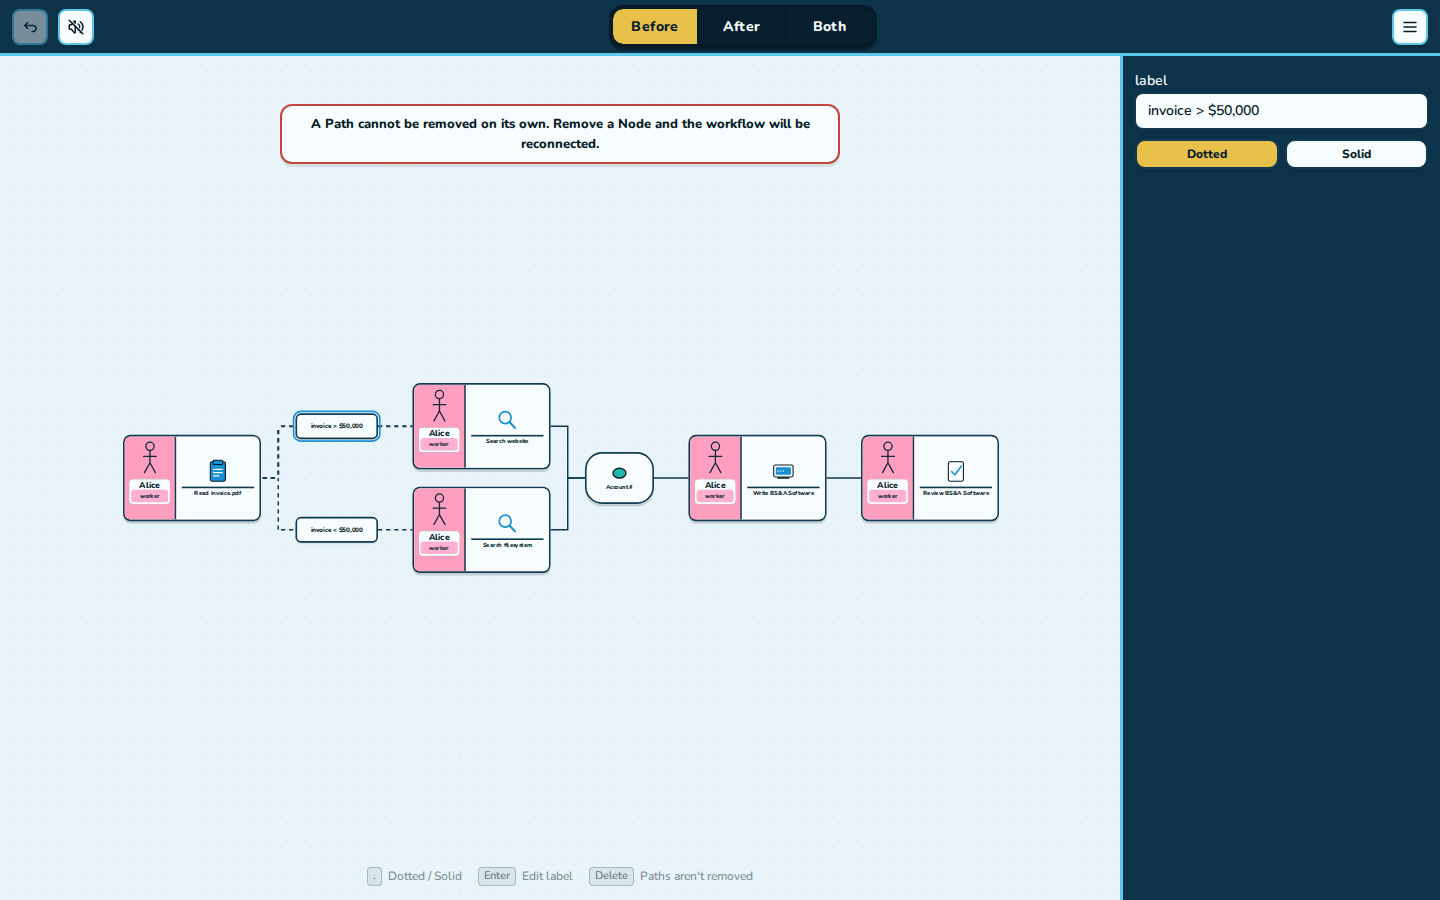
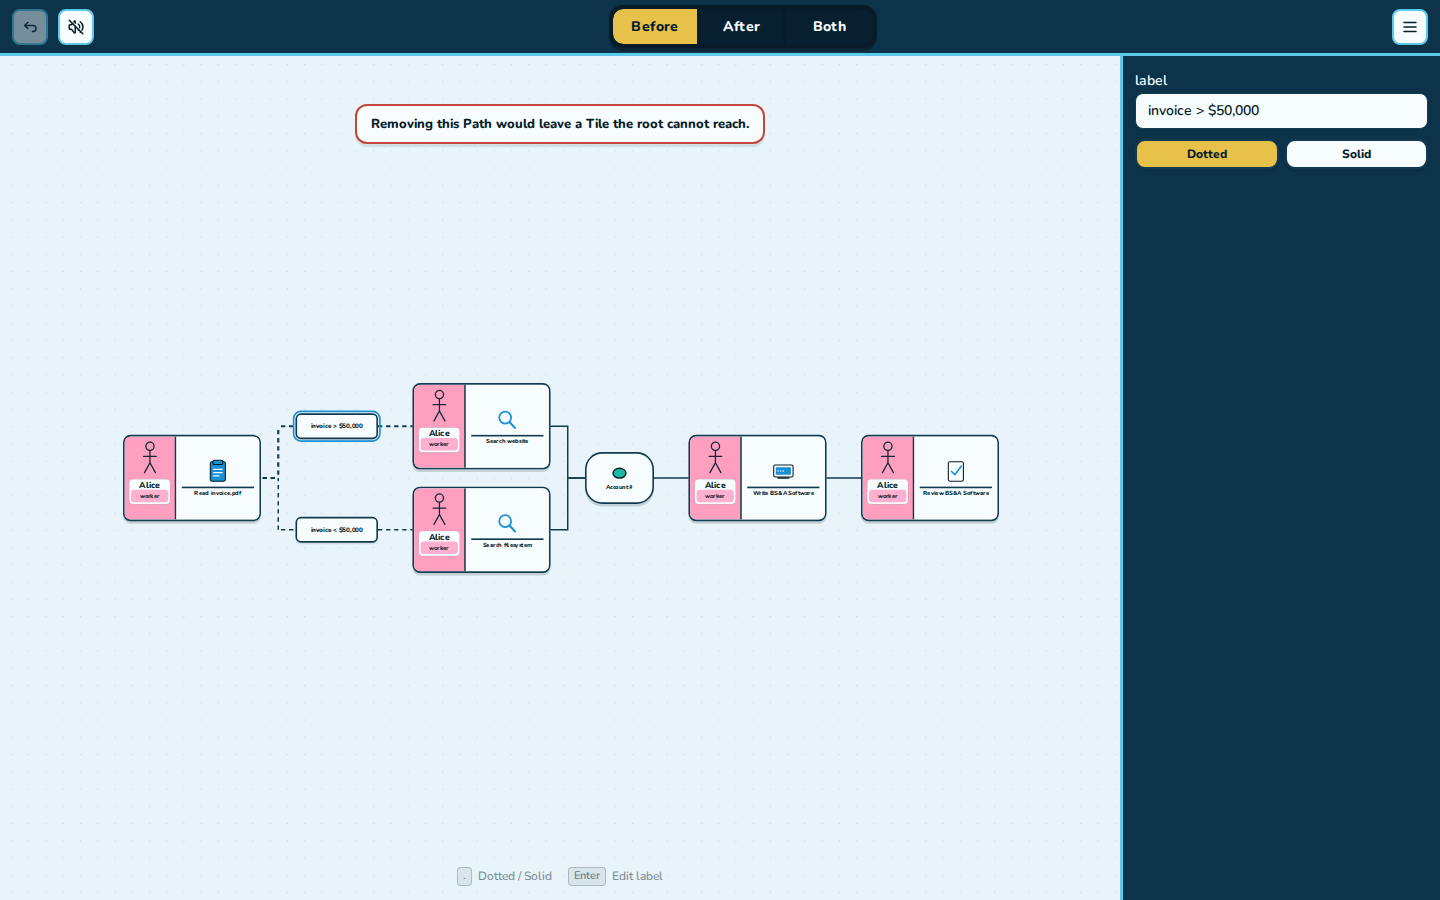
feat(improve-11): delete redundant Paths from the context menu
Allow removing a Path when every Tile stays reachable from the root, via a right-click Delete item and the Delete key. Widen Path hit pads so strokes are easier to select.

Changed region(s): [[0.2188, 0.1244, 0.5625, 0.1867], [0.25, 0.9644, 0.5312, 0.9956]]

diff --git a/src/workflow/commands.test.ts b/src/workflow/commands.test.ts
@@ -12,10 +12,14 @@ import {
   planNodeRemoval,
   pruneAfterOverlay,
   insertNodeOnPath,
+  removePath,
+  canRemovePath,
   validatePairings,
   type RemovalPairing,
 } from "./commands";
 import { validateWorkflow } from "./graph";
+import { oakParkInvoice, OAK_PARK_IDS } from "../demos/oakParkInvoice";
+import { MAILROOM_IDS, robotMailroom } from "../demos/robotMailroom";
 import {
   emptyAfterOverlay,
   emptyWorkflow,
@@ -217,6 +221,56 @@ test("connectNodes accepts a legal reconvergence Path", () => {
   if (!result.ok) return;
   expect(result.value.edges.some((e) => e.source === "b" && e.target === "c")).toBe(true);
   expect(validateWorkflow(result.value)).toEqual([]);
+});
+
+test("removePath drops a reconverge Path and rejects a bridge Path", () => {
+  const diamond = doc(
+    [step("r"), step("a", 0, 40), step("b", 80, 40), step("c", 40, 80)],
+    [path("e1", "r", "a"), path("e2", "r", "b"), path("e3", "a", "c"), path("e4", "b", "c")],
+  );
+  expect(canRemovePath(diamond, "e3")).toBe(true);
+  const dropped = removePath(diamond, "e3");
+  expect(dropped.ok).toBe(true);
+  if (!dropped.ok) return;
+  expect(dropped.value.edges.map((e) => e.id)).toEqual(["e1", "e2", "e4"]);
+  expect(validateWorkflow(dropped.value)).toEqual([]);
+
+  expect(canRemovePath(diamond, "e1")).toBe(false);
+  const bridge = removePath(diamond, "e1");
+  expect(bridge.ok).toBe(false);
+  if (bridge.ok) return;
+  expect(bridge.message).toBe(MSG.pathRemoval);
+  expect(diamond.edges).toHaveLength(4);
+});
+
+test("removePath rejects the only Path into an After-only Step", () => {
+  const board = doc([step("a"), step("b", 0, 200)], [path("e1", "a", "b")], {
+    after: {
+      ...emptyAfterOverlay(),
+      extraNodes: [step("x", 0, 400)],
+      extraEdges: [path("ex", "b", "x")],
+      assignments: { a: "h1", b: "h1", x: "h1" },
+    },
+  });
+  const blocked = removePath(board, "ex");
+  expect(blocked.ok).toBe(false);
+  if (blocked.ok) return;
+  expect(blocked.message).toBe(MSG.pathRemoval);
+});
+
+test("removePath on Oak Park / Mailroom reconverge Paths", () => {
+  const oak = oakParkInvoice();
+  expect(canRemovePath(oak, OAK_PARK_IDS.webAcct)).toBe(true);
+  expect(canRemovePath(oak, OAK_PARK_IDS.gt)).toBe(false);
+  const dropped = removePath(oak, OAK_PARK_IDS.webAcct);
+  expect(dropped.ok).toBe(true);
+  if (!dropped.ok) return;
+  expect(validateWorkflow(dropped.value)).toEqual([]);
+
+  const mail = robotMailroom();
+  expect(canRemovePath(mail, MAILROOM_IDS.e6)).toBe(true);
+  expect(canRemovePath(mail, MAILROOM_IDS.e1)).toBe(false);
+  expect(canRemovePath(mail, MAILROOM_IDS.extra)).toBe(false);
 });
 
 test("addConnectedNode creates a reachable child in one step", () => {

diff --git a/src/state/store.ts b/src/state/store.ts
@@ -9,6 +9,7 @@
  * removeTarget / confirmRemove — selected-tile X / Delete; M:N pairing preview
  * insertOnPath — drop a tile onto a Path
  * toggleSelectedDash — selected Path solid / dotted
+ * removePath / openPathMenu — redundant Path Delete (reachability)
  * requestNew / requestDemo / importRaw — replacement gate (SH-06, SH-12)
  * startFresh / downloadHeldRecovery — corrupt-storage recovery (SH-10)
  * setSoundEnabled — persisted Web Audio cues (SH-03, SH-04)
@@ -57,6 +58,7 @@ import {
   pairingBetween,
   planNodeRemoval,
   removalNeighborhood,
+  removePath as removePathFromDoc,
   validatePairings,
   type RemovalPairing,
   type RemovalPlan,
@@ -259,6 +261,8 @@ export const useStore = create<{
   assignActor: (stepId: string, actorId: string) => void;
   connect: (source: string, target: string, label?: string) => void;
   deleteSelection: () => void;
+  openPathMenu: (edgeId: string, x: number, y: number) => void;
+  removePath: (edgeId: string) => void;
   closeBoardModes: () => void;
   spawnBranch: (sourceId: string, type: typeof WorkflowNodeKind.Step | typeof WorkflowNodeKind.DataField) => string;
   beginPlusPull: (sourceId: string) => void;
@@ -757,10 +761,39 @@ export const useStore = create<{
       return;
     }
     if (selected.type === SelectionKind.Edge) {
-      get().setNotice(MSG.pathRemoval);
+      get().removePath(selected.id);
       return;
     }
     get().removeActor(selected.id);
+  },
+  openPathMenu: (edgeId, x, y) => {
+    if (!get().canvasEditable()) return;
+    const kind = get().interaction.kind;
+    if (
+      kind === "tile-drag" ||
+      kind === "plus-pull" ||
+      kind === "path-pull" ||
+      kind === "remove-preview" ||
+      kind === "path-label-edit"
+    ) {
+      return;
+    }
+    if (!findEdge(get().workflow, edgeId)) return;
+    set({
+      selected: { type: SelectionKind.Edge, id: edgeId },
+      interaction: { kind: "path-menu", edgeId, x, y },
+    });
+  },
+  removePath: (edgeId) => {
+    if (!get().canvasEditable()) return;
+    const result = removePathFromDoc(get().workflow, edgeId);
+    if (!result.ok) {
+      get().setNotice(result.message);
+      return;
+    }
+    get().commit(result.value);
+    playCueWhen(get().soundEnabled, "pop");
+    set({ selected: null, interaction: IDLE });
   },
 
   closeBoardModes: () => set({ interaction: IDLE }),

diff --git a/src/workflow/commands.ts b/src/workflow/commands.ts
@@ -60,7 +60,7 @@ export const MSG = {
   selfLoop: "A Path cannot start and end on the same Node.",
   rootRemoval: "The root cannot be removed while other Tiles remain.",
   pathRemoval:
-    "A Path cannot be removed on its own. Remove a Node and the workflow will be reconnected.",
+    "Removing this Path would leave a Tile the root cannot reach.",
   manyToMany:
     "This Node has multiple incoming and outgoing Paths. Confirm pairings before removing it.",
   notEmpty: "A root is already on the board. New Nodes must connect from an existing Node.",
@@ -382,6 +382,34 @@ export function connectNodes(
   const nodes = maybeExclusiveSplit(doc.nodes, rawEdges, source);
   const edges = applyConnectStroke(nodes, rawEdges, source, edgeId, previousOutgoing);
   return succeed({ ...doc, nodes, edges });
+}
+
+/**
+ * Drop a Path when the remaining graph stays a connected DAG (WG-03).
+ * Base Paths and After-only Paths both go through validateWorkflow.
+ */
+export function removePath(doc: WorkflowDoc, edgeId: string): CommandResult<WorkflowDoc> {
+  const valid = requireValid(doc);
+  if (!valid.ok) return valid;
+  const inBase = doc.edges.some((e) => e.id === edgeId);
+  const inExtra = doc.after.extraEdges.some((e) => e.id === edgeId);
+  if (!inBase && !inExtra) return fail("missing-path", MSG.missingPath);
+  const next: WorkflowDoc = inBase
+    ? { ...doc, edges: doc.edges.filter((e) => e.id !== edgeId) }
+    : {
+        ...doc,
+        after: {
+          ...doc.after,
+          extraEdges: doc.after.extraEdges.filter((e) => e.id !== edgeId),
+        },
+      };
+  const checked = succeed(next);
+  if (!checked.ok) return fail("path-keeps-reachability", MSG.pathRemoval);
+  return checked;
+}
+
+export function canRemovePath(doc: WorkflowDoc, edgeId: string): boolean {
+  return removePath(doc, edgeId).ok;
 }
 
 /** Add a child Node and its Path in one validated step (create + connect). */

diff --git a/e2e/improve-11-path-delete.spec.ts b/e2e/improve-11-path-delete.spec.ts
@@ -1,0 +1,39 @@
+import { expect, test } from "@playwright/test";
+import { capturePage, loadOakPark, pathScreenPoint, waitForLayout } from "./ready";
+
+const EVIDENCE = ".docs/evidence/improve-11-path-delete";
+
+async function rightClickPath(page: import("@playwright/test").Page, edgeId: string, at = 0.25) {
+  const pt = await pathScreenPoint(page, edgeId, at);
+  await page.mouse.click(pt.x, pt.y, { button: "right" });
+}
+
+test.describe("Improvement 11 Path Delete menu", () => {
+  test("right-click Delete removes a reconverge Path", async ({ page }) => {
+    await loadOakPark(page);
+    await rightClickPath(page, "e_web_acct", 0.22);
+    const del = page.getByTestId("path-menu-delete");
+    await expect(del).toBeVisible();
+    await expect(del).toBeEnabled();
+    await capturePage(page, `${EVIDENCE}/path-menu-delete-1440.png`);
+    await del.click();
+    await expect(page.locator("path#e_web_acct")).toHaveCount(0);
+    await expect(page.getByText("Search website").first()).toBeVisible();
+    await expect(page.getByText("Account #").first()).toBeVisible();
+    await waitForLayout(page);
+    await capturePage(page, `${EVIDENCE}/path-deleted-1440.png`);
+  });
+
+  test("Delete on a bridge Path stays disabled and the Delete key explains", async ({ page }) => {
+    await loadOakPark(page);
+    await rightClickPath(page, "e_gt", 0.65);
+    const del = page.getByTestId("path-menu-delete");
+    await expect(del).toBeVisible();
+    await expect(del).toBeDisabled();
+    await capturePage(page, `${EVIDENCE}/path-menu-blocked-1440.png`);
+    await page.keyboard.press("Escape");
+    await page.getByText("invoice > $50,000").first().click();
+    await page.keyboard.press("Delete");
+    await expect(page.getByText(/would leave a Tile the root cannot reach/i)).toBeVisible();
+  });
+});

diff --git a/src/board/controls/PathContextMenu.tsx b/src/board/controls/PathContextMenu.tsx
@@ -1,0 +1,57 @@
+/**
+ * Right-click Path menu (WG-05). Delete is enabled only when the remaining
+ * graph stays a connected DAG.
+ */
+import { Menu } from "@mantine/core";
+import { IconTrash } from "@tabler/icons-react";
+import { useStore } from "../../state/store";
+import { canRemovePath, MSG } from "../../workflow/commands";
+
+export function PathContextMenu() {
+  const interaction = useStore((s) => s.interaction);
+  const workflow = useStore((s) => s.workflow);
+  if (interaction.kind !== "path-menu") return null;
+  const allowed = canRemovePath(workflow, interaction.edgeId);
+  return (
+    <Menu
+      opened
+      onChange={(open) => {
+        if (!open) useStore.getState().closeBoardModes();
+      }}
+      position="bottom-start"
+      offset={6}
+      shadow="md"
+      width={188}
+      withinPortal
+      zIndex={4000}
+    >
+      <Menu.Target>
+        <div
+          aria-hidden
+          tabIndex={-1}
+          className="path-context-anchor"
+          style={{
+            position: "fixed",
+            left: interaction.x,
+            top: interaction.y,
+            width: 1,
+            height: 1,
+          }}
+        />
+      </Menu.Target>
+      <Menu.Dropdown className="path-context-menu">
+        <Menu.Item
+          color="red"
+          disabled={!allowed}
+          title={allowed ? "Delete Path" : MSG.pathRemoval}
+          aria-label={allowed ? "Delete Path" : "Delete Path (would leave a Tile unreachable)"}
+          data-testid="path-menu-delete"
+          leftSection={<IconTrash size={16} stroke={2.2} aria-hidden />}
+          onClick={() => useStore.getState().removePath(interaction.edgeId)}
+        >
+          Delete
+        </Menu.Item>
+      </Menu.Dropdown>
+    </Menu>
+  );
+}

diff --git a/src/app/components/CanvasHelper.tsx b/src/app/components/CanvasHelper.tsx
@@ -10,6 +10,7 @@ import {
   ViewMode,
   WorkflowNodeKind,
 } from "../../workflow/catalogs";
+import { canRemovePath } from "../../workflow/commands";
 
 type Hint = { key: string; label: string };
 
@@ -59,11 +60,14 @@ function hintsFor(): Hint[] {
   }
   if (s.selected?.type === SelectionKind.Edge) {
     if (s.view === ViewMode.Both) return [];
-    return [
+    const items: Hint[] = [
       { key: pk(KeyAction.ToggleDash), label: "Dotted / Solid" },
       { key: pk(KeyAction.Confirm), label: "Edit label" },
-      { key: pk(KeyAction.Delete), label: "Paths aren't removed" },
     ];
+    if (canRemovePath(s.workflow, s.selected.id)) {
+      items.push({ key: pk(KeyAction.Delete), label: "Remove Path" });
+    }
+    return items;
   }
   if (s.selected?.type === SelectionKind.Node) {
     const n =

diff --git a/src/app/App.tsx b/src/app/App.tsx
@@ -18,6 +18,7 @@ import { RemovePickerHud } from "./components/RemovePickerHud";
 import { ReplaceDocumentModal } from "./components/ReplaceDocumentModal";
 import { Toolbar } from "./components/Toolbar";
 import { TransientNotice } from "./components/TransientNotice";
+import { PathContextMenu } from "../board/controls/PathContextMenu";
 import { UnsupportedViewport } from "./components/UnsupportedViewport";
 import { DetailsPanel } from "./inspector/SelectedItemForm";
 import { useSupportedViewport } from "./viewport";
@@ -122,6 +123,7 @@ export default function App() {
             <EmptyBoardCta />
             <CanvasHelper />
             <TransientNotice />
+            <PathContextMenu />
             <RemovePickerHud />
           </div>
         </AppShell.Main>

diff --git a/src/state/store.commands.test.ts b/src/state/store.commands.test.ts
@@ -65,6 +65,13 @@ test("store actions keep a valid workflow (WG-02..WG-04)", () => {
   expect(useStore.getState().workflow.edges).toHaveLength(edgeCount);
   expect(useStore.getState().notice).toBe(MSG.pathRemoval);
 
+  s.setNotice(null);
+  s.select({ type: SelectionKind.Edge, id: "e_web_acct" });
+  s.deleteSelection();
+  expect(useStore.getState().workflow.edges.some((e) => e.id === "e_web_acct")).toBe(false);
+  expect(useStore.getState().notice).toBe(null);
+  expect(validateWorkflow(useStore.getState().workflow)).toEqual([]);
+
   s.select({ type: SelectionKind.Node, id: leaf });
   s.deleteSelection();
   expect(useStore.getState().workflow.nodes.some((n) => n.id === leaf)).toBe(false);

diff --git a/e2e/canvas.spec.ts b/e2e/canvas.spec.ts
@@ -203,7 +203,7 @@ test.describe("slice 6 canvas create / connect / remove", () => {
 
     await page.getByText("invoice > $50,000").first().click();
     await page.keyboard.press("Delete");
-    await expect(page.getByText(/cannot be removed on its own/i)).toBeVisible();
+    await expect(page.getByText(/would leave a Tile the root cannot reach/i)).toBeVisible();
     await capturePage(page, `${EVIDENCE}/path-no-delete-1440.png`);
 
     await page.getByRole("button", { name: "Menu" }).click();

diff --git a/e2e/commands.spec.ts b/e2e/commands.spec.ts
@@ -47,7 +47,7 @@ test.describe("slice 4 command evidence", () => {
     await capturePage(page, `${EVIDENCE}/path-no-delete-1440.png`);
 
     await page.keyboard.press("Delete");
-    await expect(page.getByText(/cannot be removed on its own/i)).toBeVisible();
+    await expect(page.getByText(/would leave a Tile the root cannot reach/i)).toBeVisible();
   });
 
   test("root removal is blocked with a hint; leaf removal restitches", async ({ page }) => {

diff --git a/src/state/interaction.ts b/src/state/interaction.ts
@@ -13,7 +13,8 @@ export type Interaction =
   | { kind: "tile-drag"; nodeId: string; hoverEdgeId: string | null }
   | { kind: "connect-existing"; sourceId: string }
   | { kind: "remove-preview"; plan: RemovalPlan }
-  | { kind: "path-label-edit"; edgeId: string };
+  | { kind: "path-label-edit"; edgeId: string }
+  | { kind: "path-menu"; edgeId: string; x: number; y: number };
 
 export const IDLE: Interaction = { kind: "idle" };
 

diff --git a/src/app/styles/tokens.css b/src/app/styles/tokens.css
@@ -169,6 +169,20 @@ body.is-tile-dragging * {
   stroke: transparent !important;
 }
 
+.react-flow__edge-interaction {
+  stroke-width: 44;
+}
+
+.path-context-menu {
+  border: 2.5px solid var(--chrome-line) !important;
+  border-radius: 10px !important;
+  padding: 4px;
+}
+
+.path-context-anchor {
+  pointer-events: none;
+}
+
 .present-mode .chrome-hide {
   display: none !important;
 }
